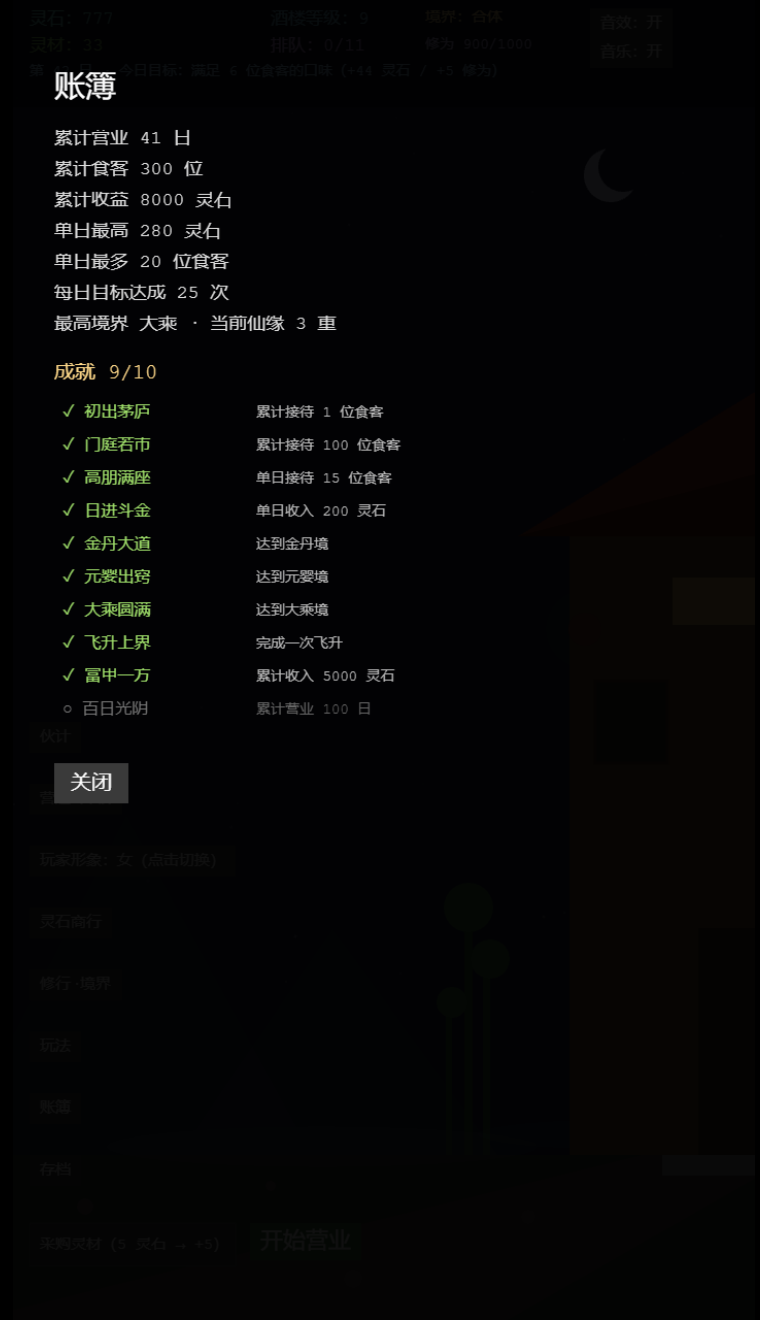
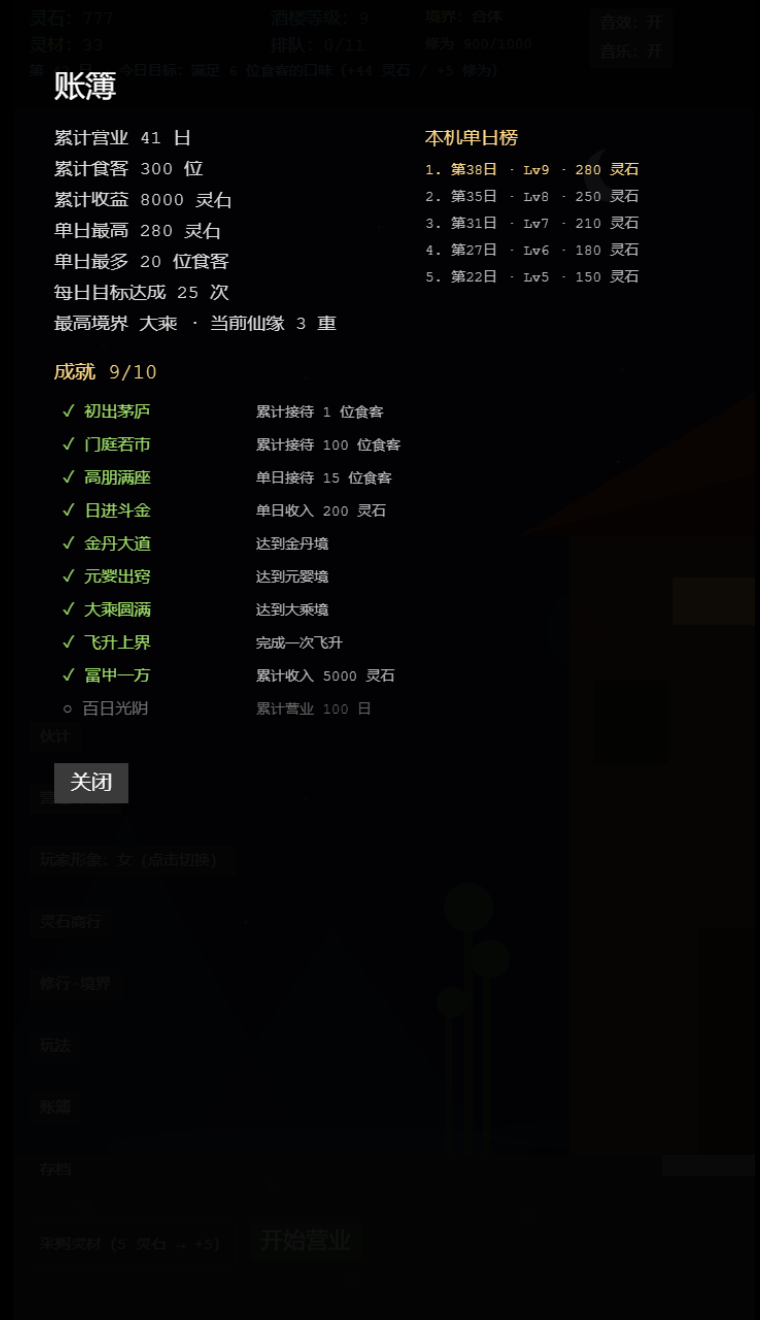
加入本机单日收入前 5 榜与仙缘开局等级里程碑
- 账簿右侧新增本机单日榜，按收入保留前 5 天，随存档/导出码迁移
- 每 3 重仙缘，飞升后的新周目开局酒楼等级 +1，并自动选中已解锁菜单
- 飞升确认页显示下周目开局等级与资源
- 测试增至 43 条，更新试玩记录与账簿截图

Changed region(s): [[0.5447, 0.0932, 0.6961, 0.2174], [0.7566, 0.1242, 0.8474, 0.2174], [0.6961, 0.1242, 0.7263, 0.2174]]

diff --git a/src/main.ts b/src/main.ts
@@ -17,6 +17,7 @@ import {
   getAscensionPriceMultiplier,
   getAscensionStartCoins,
   getAscensionStartInventory,
+  getAscensionStartLevel,
   getBoothCount,
   getCultivationGain,
   getDailyGoal,
@@ -544,11 +545,12 @@ class TavernScene extends Phaser.Scene {
 
   /** 新周目存档：飞升后保留仙缘与形象，其余归零。 */
   private freshSave(ascensions: number): SaveData {
+    const startLevel = getAscensionStartLevel(ascensions);
     return {
       v: 1,
       coins: getAscensionStartCoins(ascensions),
       inventory: getAscensionStartInventory(ascensions),
-      level: 1,
+      level: startLevel,
       stoveLevel: 0,
       signLevel: 0,
       staffLevel: { hawker: 0, server: 0, cook: 0, buyer: 0 },
@@ -559,7 +561,7 @@ class TavernScene extends Phaser.Scene {
       cultivation: 0,
       day: 1,
       ascensions,
-      selectedDishIds: DISHES.filter((d) => d.unlockLevel <= 1).map((d) => d.id),
+      selectedDishIds: DISHES.filter((d) => d.unlockLevel <= startLevel).map((d) => d.id),
       playerGender: this.playerGender,
       meta: this.meta,
     };
@@ -623,6 +625,23 @@ class TavernScene extends Phaser.Scene {
             bestServed: count(meta.bestServed),
             goalsMet: count(meta.goalsMet),
             maxRealm: count(meta.maxRealm),
+            topDays: (Array.isArray(meta.topDays) ? meta.topDays : [])
+              .filter(
+                (record) =>
+                  record &&
+                  Number.isFinite(record.day) &&
+                  Number.isFinite(record.level) &&
+                  Number.isFinite(record.served) &&
+                  Number.isFinite(record.revenue),
+              )
+              .map((record) => ({
+                day: Math.max(1, Math.floor(record.day)),
+                level: Math.max(1, Math.floor(record.level)),
+                served: Math.max(0, Math.floor(record.served)),
+                revenue: Math.max(0, Math.floor(record.revenue)),
+              }))
+              .sort((a, b) => b.revenue - a.revenue)
+              .slice(0, 5),
           }
         : { ...EMPTY_META };
       this.meta.maxRealm = Math.max(this.meta.maxRealm, getRealmIndex(this.cultivation));
@@ -1449,6 +1468,8 @@ class TavernScene extends Phaser.Scene {
       revenue: this.sessionRevenue,
       goalMet: this.lastGoalResult?.met ?? false,
       realmIndex: this.realmIndex(),
+      day: Math.max(1, this.day - 1),
+      level: this.level,
     });
     this.updateBankruptStreak();
     // 结算/破产期间锁定副屏，避免重复结算或误买
@@ -1693,7 +1714,9 @@ class TavernScene extends Phaser.Scene {
         40,
         146,
         this.ascensions > 0
-          ? `仙缘 ${this.ascensions} 重 · 菜品售价 +${Math.round((getAscensionPriceMultiplier(this.ascensions) - 1) * 100)}%`
+          ? `仙缘 ${this.ascensions} 重 · 菜品售价 +${Math.round(
+              (getAscensionPriceMultiplier(this.ascensions) - 1) * 100,
+            )}% · 下次飞升开局 Lv${getAscensionStartLevel(this.ascensions + 1)}`
           : "尚未飞升 · 每次飞升留一重仙缘，永久提高售价",
         { fontSize: "15px", color: "#c8a8ff" },
       ),
@@ -1774,7 +1797,7 @@ class TavernScene extends Phaser.Scene {
       `失去：灵石、灵材、酒楼 ${this.level} 级、灶台/门面、伙计、借据、修为、天数`,
       "",
       `飞升后：仙缘 ${next} 重，菜品售价 +${Math.round((getAscensionPriceMultiplier(next) - 1) * 100)}%`,
-      `开局灵石 ${STARTING_COINS + next * 20}、灵材 ${STARTING_INVENTORY + next * 2}`,
+      `开局：酒楼 Lv${getAscensionStartLevel(next)} · 灵石 ${getAscensionStartCoins(next)} · 灵材 ${getAscensionStartInventory(next)}`,
     ];
     lines.forEach((line, i) => {
       layer.add(
@@ -2188,6 +2211,19 @@ class TavernScene extends Phaser.Scene {
     stats.forEach((line, i) => {
       layer.add(this.add.text(40, 126 + i * 30, line, { fontSize: "18px", color: "#dddddd" }));
     });
+    layer.add(this.add.text(400, 126, "本机单日榜", { fontSize: "18px", color: "#ffd98a" }));
+    if (this.meta.topDays.length === 0) {
+      layer.add(this.add.text(400, 160, "尚无记录", { fontSize: "14px", color: "#777777" }));
+    } else {
+      this.meta.topDays.forEach((record, i) => {
+        layer.add(
+          this.add.text(400, 158 + i * 26, `${i + 1}. 第${record.day}日 · Lv${record.level} · ${record.revenue} 灵石`, {
+            fontSize: "14px",
+            color: i === 0 ? "#ffd98a" : "#bbbbbb",
+          }),
+        );
+      });
+    }
 
     const achievements = getAchievements(meta, this.ascensions);
     const unlocked = achievements.filter((item) => item.unlocked).length;

diff --git a/src/logic.test.ts b/src/logic.test.ts
@@ -16,6 +16,7 @@ import {
   getAscensionPriceMultiplier,
   getAscensionStartCoins,
   getAscensionStartInventory,
+  getAscensionStartLevel,
   getBoothCount,
   getCultivationGain,
   getDailyGoal,
@@ -377,8 +378,25 @@ describe("飞升开局与跨周目账簿", () => {
     expect(getAscensionStartInventory(-3)).toBe(5);
   });
 
+  it("每 3 重仙缘提高新周目开局酒楼等级", () => {
+    expect(getAscensionStartLevel(0)).toBe(1);
+    expect(getAscensionStartLevel(2)).toBe(1);
+    expect(getAscensionStartLevel(3)).toBe(2);
+    expect(getAscensionStartLevel(5)).toBe(2);
+    expect(getAscensionStartLevel(6)).toBe(3);
+    expect(getAscensionStartLevel(30)).toBe(11);
+    expect(getAscensionStartLevel(-2)).toBe(1);
+  });
+
   it("账簿累加、保留单日最高与历史最高境界", () => {
-    const first = updateMeta(EMPTY_META, { served: 9, revenue: 63, goalMet: true, realmIndex: 1 });
+    const first = updateMeta(EMPTY_META, {
+      served: 9,
+      revenue: 63,
+      goalMet: true,
+      realmIndex: 1,
+      day: 1,
+      level: 1,
+    });
     expect(first).toMatchObject({
       days: 1,
       served: 9,
@@ -388,7 +406,15 @@ describe("飞升开局与跨周目账簿", () => {
       goalsMet: 1,
       maxRealm: 1,
     });
-    const second = updateMeta(first, { served: 3, revenue: 20, goalMet: false, realmIndex: 0 });
+    expect(first.topDays).toEqual([{ day: 1, level: 1, served: 9, revenue: 63 }]);
+    const second = updateMeta(first, {
+      served: 3,
+      revenue: 20,
+      goalMet: false,
+      realmIndex: 0,
+      day: 2,
+      level: 2,
+    });
     expect(second.days).toBe(2);
     expect(second.served).toBe(12);
     expect(second.revenue).toBe(83);
@@ -396,6 +422,23 @@ describe("飞升开局与跨周目账簿", () => {
     expect(second.bestServed).toBe(9);
     expect(second.goalsMet).toBe(1);
     expect(second.maxRealm).toBe(1);
+  });
+
+  it("本机单日榜只留收入最高的 5 天并降序", () => {
+    let meta = { ...EMPTY_META };
+    for (const [i, revenue] of [10, 300, 50, 200, 80, 120].entries()) {
+      meta = updateMeta(meta, {
+        served: i,
+        revenue,
+        goalMet: false,
+        realmIndex: 0,
+        day: i + 1,
+        level: 1,
+      });
+    }
+    expect(meta.topDays.map((r) => r.revenue)).toEqual([300, 200, 120, 80, 50]);
+    expect(meta.topDays.length).toBe(5);
+    expect(meta.bestRevenue).toBe(300);
   });
 
   it("成就按账簿阈值解锁，完整账簿可全解锁", () => {
@@ -417,6 +460,7 @@ describe("飞升开局与跨周目账簿", () => {
         bestServed: 15,
         goalsMet: 20,
         maxRealm: 7,
+        topDays: [],
       },
       1,
     );

diff --git a/src/logic.ts b/src/logic.ts
@@ -362,6 +362,11 @@ export function getAscensionPriceMultiplier(ascensions: number): number {
   return 1 + ASCENSION_PRICE_BONUS * Math.max(0, Math.floor(ascensions));
 }
 
+/** 每 3 重仙缘，飞升后的新周目直接从更高酒楼等级开局，跳过早期重复劳动。 */
+export function getAscensionStartLevel(ascensions: number): number {
+  return 1 + Math.floor(Math.max(0, Math.floor(ascensions)) / 3);
+}
+
 export function getAscensionStartCoins(ascensions: number): number {
   return STARTING_COINS + Math.max(0, Math.floor(ascensions)) * ASCENSION_START_COIN_BONUS;
 }
@@ -371,6 +376,13 @@ export function getAscensionStartInventory(ascensions: number): number {
 }
 
 // ===== 跨周目账簿与成就 =====
+export interface MetaDayRecord {
+  day: number;
+  level: number;
+  served: number;
+  revenue: number;
+}
+
 export interface MetaStats {
   days: number;
   served: number;
@@ -379,6 +391,8 @@ export interface MetaStats {
   bestServed: number;
   goalsMet: number;
   maxRealm: number;
+  /** 本机单日收入前 5，按收入降序。 */
+  topDays: MetaDayRecord[];
 }
 
 export const EMPTY_META: MetaStats = {
@@ -389,12 +403,24 @@ export const EMPTY_META: MetaStats = {
   bestServed: 0,
   goalsMet: 0,
   maxRealm: 0,
+  topDays: [],
 };
 
 export function updateMeta(
   meta: MetaStats,
-  session: { served: number; revenue: number; goalMet: boolean; realmIndex: number },
+  session: { served: number; revenue: number; goalMet: boolean; realmIndex: number; day: number; level: number },
 ): MetaStats {
+  const topDays = [
+    ...meta.topDays,
+    {
+      day: Math.max(1, session.day),
+      level: Math.max(1, session.level),
+      served: Math.max(0, session.served),
+      revenue: Math.max(0, session.revenue),
+    },
+  ]
+    .sort((a, b) => b.revenue - a.revenue)
+    .slice(0, 5);
   return {
     days: meta.days + 1,
     served: meta.served + Math.max(0, session.served),
@@ -403,6 +429,7 @@ export function updateMeta(
     bestServed: Math.max(meta.bestServed, session.served),
     goalsMet: meta.goalsMet + (session.goalMet ? 1 : 0),
     maxRealm: Math.max(meta.maxRealm, session.realmIndex),
+    topDays,
   };
 }
 

diff --git a/GLOSSARY.md b/GLOSSARY.md
@@ -49,7 +49,7 @@
 
 - **修为（Cultivation）**：玩家的修行进度，跨营业回合累积、随存档保留。每有一道菜随食客离店结算，得 1 点修为；同一道菜由玩家**亲自烹饪**则得 2 点。因此「亲自下厨」是用操作换修行、「让伙计代劳」是用工资换时间，二者构成长期取舍。修为不直接消费，只用于推动境界。
 - **境界（Realm）**：修为达到阈值自动突破，共八重：炼气（0）、筑基（30）、金丹（80）、元婴（160）、化神（280）、炼虚（450）、合体（700）、大乘（1000）。突破不打断营业，只播一次白光、灵环与浮字并记入见闻录。各境界的加成为：炼气无加成；筑基菜品售价 +10%；金丹玩家操作速度 +10%；元婴顾客到店间隔 -15%；化神打烊时自动得 3 灵材；炼虚伙计操作速度 +10%；合体售价 +20%；大乘售价 +30%。后续境界的加成覆盖而非叠加同项旧值。
-- **飞升（Ascension）**：修到大乘后可主动渡劫飞升，是当前版本的终局目标。飞升会重置本局——灵石、灵材、酒楼等级、灶台/门面、伙计、借据、修为、天数全部归零，但保留**仙缘**与玩家形象。每飞升一次得 1 重仙缘，菜品售价永久 +10%（可无限叠加），并提高开局灵石（+20/重）与灵材（+2/重）。飞升不可撤销，确认页会写明失去与保留的内容。
+- **飞升（Ascension）**：修到大乘后可主动渡劫飞升，是当前版本的终局目标。飞升会重置本局——灵石、灵材、酒楼等级、灶台/门面、伙计、借据、修为、天数全部归零，但保留**仙缘**与玩家形象。每飞升一次得 1 重仙缘，菜品售价永久 +10%（可无限叠加），并提高开局灵石（+20/重）与灵材（+2/重）。**每 3 重仙缘，新周目开局酒楼等级 +1**，直接跳过早期重复的扩建。飞升不可撤销，确认页会写明失去、保留与下周目开局。
 - **存档（Save）**：本地自动存档（localStorage，版本化）。只保存打烊阶段可复现的经营状态：灵石、灵材、酒楼等级、灶台/门面等级、伙计等级/熟练度、菜单、借贷与欠款、连亏天数、修为、天数、仙缘、玩家形象，以及跨周目账簿。**营业中不落盘**，中途刷新等于放弃本局，避免带着当日收益跳过工资与还账；打烊结算完成后立即保存。破产写入一份保留仙缘与账簿的新周目存档，重开即从第 1 日再来。v1 仍无云同步，跨设备迁移用导出码。
 
 ## 灵石商行
@@ -66,7 +66,7 @@
 
 ## 账簿与成就
 
-- **账簿（Ledger）**：打烊视图「账簿」页面，展示跨周目累计数据：营业天数、累计食客、累计收益、单日本机最高收益/最多食客、每日目标达成次数、历史最高境界与当前仙缘。账簿随飞升与破产一起保留，是玩家自己的本机记录。
+- **账簿（Ledger）**：打烊视图「账簿」页面，展示跨周目累计数据：营业天数、累计食客、累计收益、单日本机最高收益/最多食客、本机单日收入前 5 名、每日目标达成次数、历史最高境界与当前仙缘。账簿随飞升与破产一起保留，是玩家自己的本机记录（不做全球排行）。
 - **成就（Achievement）**：账簿里的 10 项长期里程碑（初次接待、百位食客、单日高朋满座/日进斗金、金丹/元婴/大乘、飞升、累计 5000 收益、营业 100 日）。只展示与记录，不发奖励，避免为了成就刷数值反而破坏经营取舍。
 - **导出码（Export Code）**：打烊视图「存档」页面把当前存档（含账簿）编码成 `LS1.` 前缀的 Base64 文本，用于换设备/重装后恢复。导入会覆盖本机当前进度并刷新页面；无效前缀、损坏 Base64 或版本不符的码会被拒绝。
 

diff --git a/docs/playtest.md b/docs/playtest.md
@@ -12,21 +12,24 @@
 | 稀客：仙门长老点太虚道果 | 1 | 207 灵石 | 0 | 55 × 2.5（客单价）× 1.5（口味）= 207；修为 +3 |
 | 大乘飞升 | — | — | — | 0→1 重仙缘；等级 3→1、伙计/借据/修为/天数归零；开局 40 灵石/7 灵材；清炒灵蔬 6→7 |
 | 连续第二次飞升 | — | — | — | 仙缘 1→2；开局 40→60 灵石、7→9 灵材；账簿（10 日/50 食客/1000 收益/maxRealm 7）完整保留 |
+| 第 4 重飞升（开局等级里程碑） | — | — | — | 仙缘 3→4；新周目开局 Lv2、100 灵石/13 灵材、自动带上灵米粥、4 个雅座；账簿保留 |
 | 破产（仙缘 2、连亏 4、余额 -10） | — | — | — | 新周目保留仙缘 2；开局 60 灵石/9 灵材/第 1 日 |
 | 导出码往返 | — | — | — | 568 字符 `LS1.` 码；导入后灵石 777、第 42 日、仙缘 3、账簿 41 日/300 食客/8000 收益全部保留；导入期间禁止 beforeunload 覆盖 |
 | 一局后的账簿 | 1 | 9 灵石 | 0 | 账簿 days 1 / served 1 / revenue 9 / best 9 / goalsMet 0，随存档落盘 |
+
+多周目开局：每 3 重仙缘，新周目酒楼等级 +1（纯逻辑测试覆盖 0/2/3/5/6/30 重：Lv1/1/2/2/3/11），避免高仙缘仍从 1 级重复扩建。
 
 截图：
 
 - 打烊夜景与营造/修行入口：`docs/screenshots/night-tavern.png`
 - 手机营业视图（7 道菜、两行出菜、进度条）：`docs/screenshots/mobile-open.png`
-- 跨周目账簿与 9/10 成就：`docs/screenshots/ledger.png`
+- 跨周目账簿、本机单日收入前 5 榜与 9/10 成就：`docs/screenshots/ledger.png`
 - 导出码对话框：`docs/screenshots/save-dialog.png`
 - 中局结算（工资、目标、修为增长）：`docs/screenshots/settlement.png`
 
 ## 自动化质量门
 
-- `npm test`：41 条单元测试全过，覆盖雅座/升级、伙计工资、采购、贷款、昼夜、食客口味、每日目标、随机事件期望与损失上限、修为境界、飞升倍率/开局资源、账簿/成就、导出码往返。
+- `npm test`：43 条单元测试全过，覆盖雅座/升级、伙计工资、采购、贷款、昼夜、食客口味、每日目标、随机事件期望与损失上限、修为境界、飞升倍率/开局资源、账簿/成就、导出码往返。
 - `npm run build`：TypeScript 与 Vite 生产构建通过。
 - 浏览器驱动验证：首局、完整营业、中局自动产线、结算、存档/重载、飞升、破产、导出/导入、手机 390×844 全流程。
 

diff --git a/README.md b/README.md
@@ -19,7 +19,7 @@ npm run build   # 生产构建
 2. **营业中**：食客在门外排队，点「招待入座」；食客入座后会显示想吃的菜，点出菜行的对应菜品（端对口味售价 +50%）。也可以点「动手烹饪」按菜单顺序轮转。镜头可左右拖动查看队尾。
 3. **结账与打烊**：用膳结束自动结账，获得灵石与修为。每天有一个可选目标，达成后结算额外灵石与修为。
 4. **修行**：亲自下厨得双倍修为。修为推动炼气 → 筑基 → 金丹 → 元婴 → 化神 → 炼虚 → 合体 → 大乘，各境界给经营加成。
-5. **飞升**：修到大乘后可在「修行·境界」里渡劫飞升，重置本局并永久累加仙缘（售价 +10%/重）。
+5. **飞升**：修到大乘后可在「修行·境界」里渡劫飞升，重置本局并永久累加仙缘（售价 +10%/重；每 3 重新周目开局酒楼 +1 级）。
 
 ## 主要系统
 
@@ -29,7 +29,7 @@ npm run build   # 生产构建
 - 三条营造升级线：雅座扩建、灶台专精、门面招幡
 - 八重境界、飞升与仙缘
 - 随机事件（整体期望为正，每局至多 2 次）与见闻录
-- 跨周目账簿：累计数据、本机单日最高记录、10 项成就
+- 跨周目账簿：累计数据、本机单日最高记录、单日收入前 5 榜、10 项成就
 - 本地自动存档（营业中不落盘，避免跳过工资/还账）；「存档」页可导出/导入 `LS1.` 导出码，换设备不丢进度
 
 ## 画面
